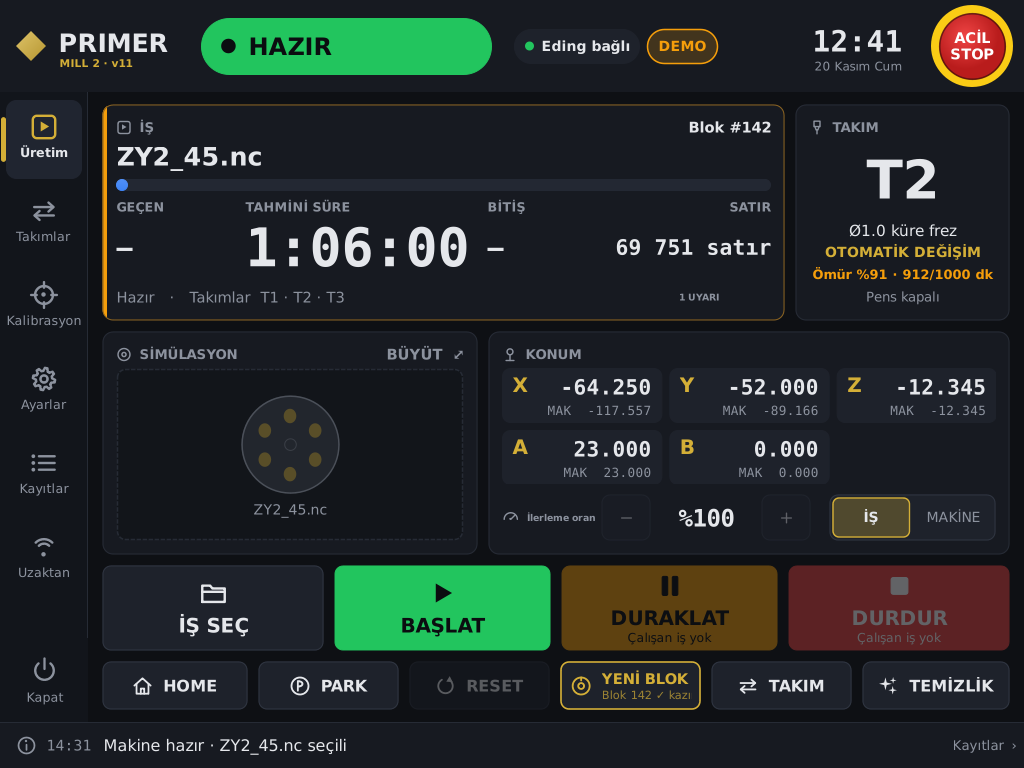
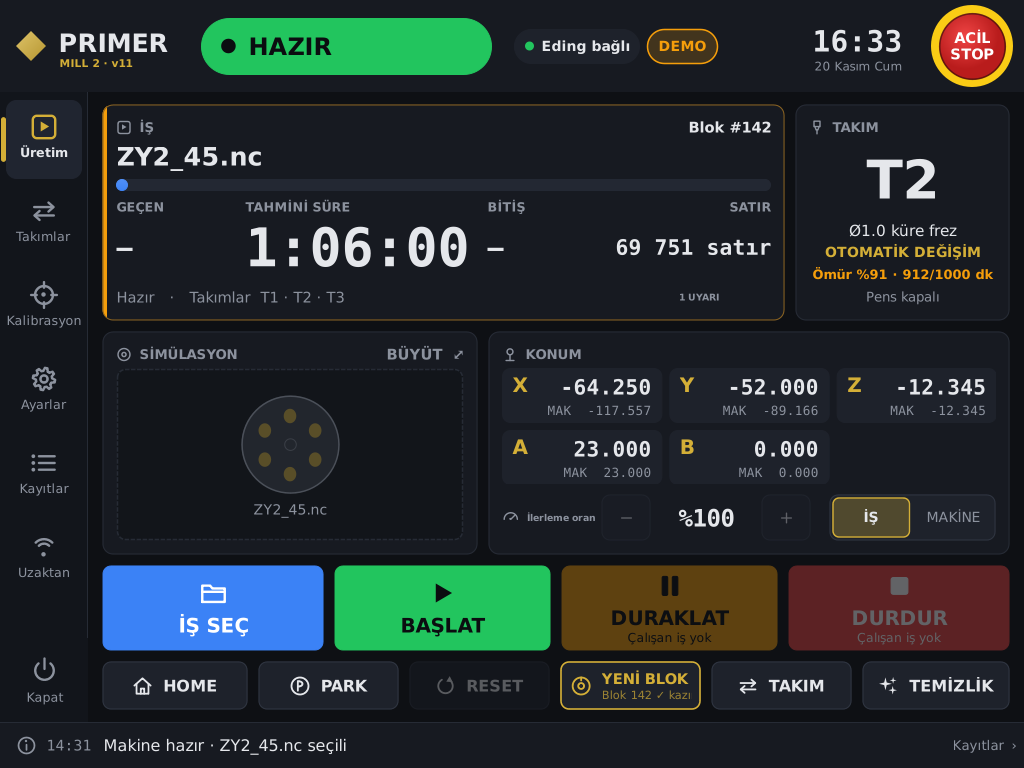
Arayuz: IS SEC dugmesi mavi (Bilgi rengi); zemin rengine karismasin
Paket v12 (SURUM.txt). Ekran goruntuleri yenilendi.

Claude-Session: https://claude.ai/code/session_01AzwqC4ZEM5pcPdzvYXdH7g

Changed region(s): [[0.0938, 0.7188, 0.3438, 0.875], [0.8125, 0.0312, 0.875, 0.0625]]

diff --git a/PrimerMill_Kod_Inceleme/teslim/PrimerMill/ui/PrimerUI.cs b/PrimerMill_Kod_Inceleme/teslim/PrimerMill/ui/PrimerUI.cs
@@ -2791,7 +2791,7 @@ namespace PrimerUI
             //     kenarları ve aralıkları aynı (simetrik).
             var dg = new Izgara(4, 1).Sutunlar(-25, -25, -25, -25); dg.Bosluk = 10;
             ana.Ekle(dg, 0, 2);
-            btnSec = dg.Ekle(BuyukDugme("İŞ SEÇ", Simge.Klasor, Rol.Normal, "is.sec", ""), 0, 0);
+            btnSec = dg.Ekle(BuyukDugme("İŞ SEÇ", Simge.Klasor, Rol.Bilgi, "is.sec", ""), 0, 0);
             btnBaslat = dg.Ekle(BuyukDugme("BAŞLAT", Simge.Oynat, Rol.Basari, "is.baslat", ""), 1, 0);
             btnDuraklat = dg.Ekle(BuyukDugme("DURAKLAT", Simge.Duraklat, Rol.Uyari, "is.duraklat", ""), 2, 0);
             btnDurdur = dg.Ekle(BuyukDugme("DURDUR", Simge.Durdur, Rol.Tehlike, "is.durdur", ""), 3, 0);

diff --git a/PrimerMill_Kod_Inceleme/ui/PrimerUI.cs b/PrimerMill_Kod_Inceleme/ui/PrimerUI.cs
@@ -2791,7 +2791,7 @@ namespace PrimerUI
             //     kenarları ve aralıkları aynı (simetrik).
             var dg = new Izgara(4, 1).Sutunlar(-25, -25, -25, -25); dg.Bosluk = 10;
             ana.Ekle(dg, 0, 2);
-            btnSec = dg.Ekle(BuyukDugme("İŞ SEÇ", Simge.Klasor, Rol.Normal, "is.sec", ""), 0, 0);
+            btnSec = dg.Ekle(BuyukDugme("İŞ SEÇ", Simge.Klasor, Rol.Bilgi, "is.sec", ""), 0, 0);
             btnBaslat = dg.Ekle(BuyukDugme("BAŞLAT", Simge.Oynat, Rol.Basari, "is.baslat", ""), 1, 0);
             btnDuraklat = dg.Ekle(BuyukDugme("DURAKLAT", Simge.Duraklat, Rol.Uyari, "is.duraklat", ""), 2, 0);
             btnDurdur = dg.Ekle(BuyukDugme("DURDUR", Simge.Durdur, Rol.Tehlike, "is.durdur", ""), 3, 0);
